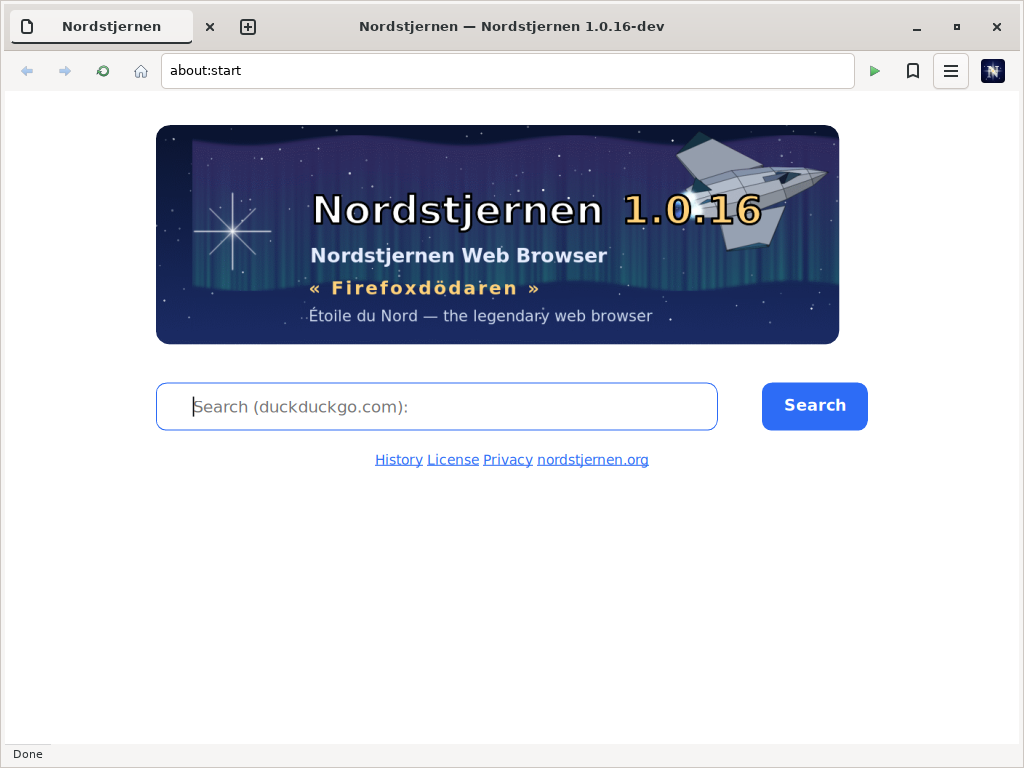
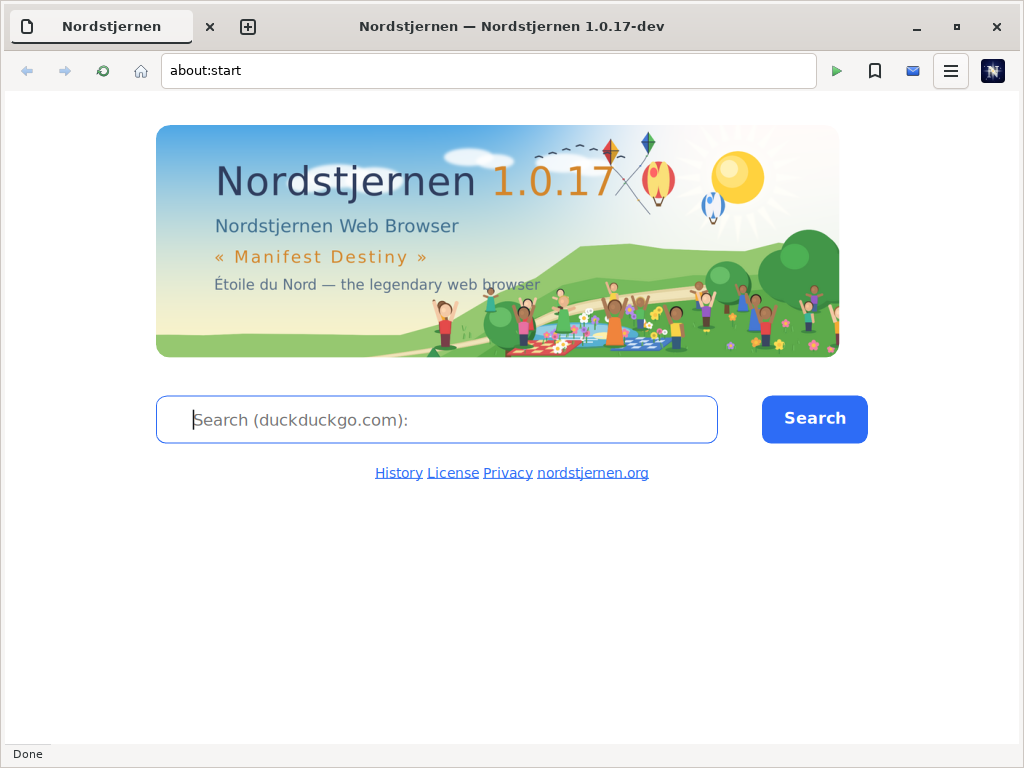
Release 1.0.17
Add release-1-0-17.html announcement page (builds on 1.0.16) and update
index.html: schema softwareVersion/downloadUrl, release line, news entry
for 1.0.17, download section, and drop the Qt build from the platforms
spec row. Update download.html to 1.0.17 (schema, hero, all-downloads
line). Refresh screenshots/screenshot.png to the 1.0.17 about:start
capture. Dated 30 June 2026.

Claude-Session: https://claude.ai/code/session_01F29XTLhewGQqPYkk4wruWQ

diff --git a/release-1-0-17.html b/release-1-0-17.html
@@ -1,0 +1,264 @@
+<!DOCTYPE html>
+<html lang="en">
+<head>
+<meta charset="utf-8">
+<meta name="viewport" content="width=device-width, initial-scale=1">
+<title>Nordstjernen Browser 1.0.17 released!</title>
+<meta name="description" content="Nordstjernen Browser 1.0.17 released - a maintenance release of an independent web browser written from scratch in C. No telemetry, no JIT.">
+<link rel="icon" type="image/svg+xml" href="assets/nordstjernen.svg">
+<link rel="stylesheet" href="assets/style.css">
+</head>
+<body>
+
+<div class="frame">
+
+  <div class="header">
+    <a class="bestviewed" href="https://github.com/nordstjernen-web/nordstjernen">
+      <img src="assets/best-viewed-in-nordstjernen.png" width="144" height="50" alt="Best viewed in Nordstjernen">
+    </a>
+    <div class="brand">
+      <a href="."><img class="logo" src="assets/nordstjernen.svg" alt="*"></a>
+      <span class="title"><a href=".">nordstjernen.org</a></span>
+    </div>
+    <div class="tag">small, steady, independent &middot; written from scratch in C &middot; no JIT, no telemetry</div>
+  </div>
+
+  <div class="nav">
+    <a href="#about">about</a><span class="sep">&middot;</span>
+    <a href="#news">news</a><span class="sep">&middot;</span>
+    <a href="#specs">specifications</a><span class="sep">&middot;</span>
+    <a href="screenshots.html">screenshots</a><span class="sep">&middot;</span>
+    <a href="#download">download</a><span class="sep">&middot;</span>
+    <a href="https://github.com/nordstjernen-web/nordstjernen">github</a><span class="sep">&middot;</span>
+    <a href="https://github.com/nordstjernen-web/nordstjernen/releases">releases</a><span class="sep">&middot;</span>
+    <a href="https://github.com/nordstjernen-web/nordstjernen/blob/main/License.md">license</a><span class="sep">&middot;</span>
+    <a href="https://discord.gg/4W959nW5vF">discord</a>
+  </div>
+
+  <div class="content">
+
+        <a id="about"></a>
+        <h1>Nordstjernen Browser 1.0.17 released!</h1>
+        <p>Today, 30 June 2026, we are pleased to announce the release of <b>Nordstjernen 1.0.17</b>, a maintenance release that builds on 1.0.16. Nordstjernen is a web browser, written from scratch in C, focused on supporting the HTML and CSS standards. It runs on Windows, Mac and Linux, with an Android port in progress. Nordstjernen is built in Norway.</p>
+
+        <p>This is a focused bug-fix and stability release: it continues to iron out rough edges reported since 1.0.16, with rendering and reliability fixes throughout. There are no new external dependencies and no telemetry &mdash; just a steadier 1.0.</p>
+
+        <p>Nordstjernen Browser version 1.0.17 is available now! <a href="https://github.com/nordstjernen-web/nordstjernen/releases/tag/1.0.17">Read the full release notes here</a>, or <a href="#download">jump straight to the downloads</a>.</p>
+
+        <p>&laquo; <a href="index.html">Back to nordstjernen.org</a></p>
+
+        <div class="shot">
+          <a href="screenshots/screenshot.png"><img src="screenshots/screenshot.png" width="1920" height="1080" alt="Nordstjernen start page"></a>
+          <div class="cap">Nordstjernen rendering a page. <a href="screenshots.html">more screenshots &raquo;</a></div>
+        </div>
+
+        <p><b>HTML Standard.</b> Behaviour is measured against the spec text, section by section, not against another browser &mdash; 136 spec rows fully implemented, 27 partial, 4 absent as of June 2026. See the standards table below and <a href="https://github.com/nordstjernen-web/nordstjernen/blob/main/docs/HTML-compatibility.md">docs/HTML-compatibility.md</a>.</p>
+        <p><b>Secure.</b> Process-per-tab design &mdash; each tab's engine runs in its own sandboxed process (seccomp + Landlock on Linux), talking to the UI over IPC and shared-memory framebuffers &middot; no JIT.</p>
+        <p><b>Minimalism.</b> The whole engine is about 127,000 lines of clean-room C (plus a thin C++ Qt shell), excluding the vendored libraries &mdash; small enough for one person to read and audit end-to-end.</p>
+        <p><b>Local AI.</b> The <code>about:start</code> new-tab page is a chat with a small language model running entirely on your machine via <a href="https://github.com/ggml-org/llama.cpp">llama.cpp</a> &mdash; no cloud, no network at inference time. Build with <code>-Dai=disabled</code> for a fully offline binary.</p>
+        <p>Nordstjernen has no JIT so it is much more secure, and can still be fast enough. It ships no telemetry of any kind.</p>
+
+        <a id="news"></a>
+        <h2>news</h2>
+        <p><span class="date">30&nbsp;JUN&nbsp;2026</span> &middot;
+        Nordstjernen <b>1.0.17</b> released &mdash; a maintenance release.
+        <a href="https://github.com/nordstjernen-web/nordstjernen/releases/tag/1.0.17">Release notes &raquo;</a></p>
+
+        <p><span class="date">27&nbsp;JUN&nbsp;2026</span> &middot;
+        Nordstjernen <b>1.0.16</b> released &mdash; a maintenance release.
+        <a href="release-1-0-16.html">Announcement &raquo;</a> &middot;
+        <a href="https://github.com/nordstjernen-web/nordstjernen/releases/tag/1.0.16">Release notes &raquo;</a></p>
+
+        <p><span class="date">25&nbsp;JUN&nbsp;2026</span> &middot;
+        Nordstjernen <b>1.0.15</b> released &mdash; a maintenance release.
+        <a href="release-1-0-15.html">Announcement &raquo;</a> &middot;
+        <a href="https://github.com/nordstjernen-web/nordstjernen/releases/tag/1.0.15">Release notes &raquo;</a></p>
+
+        <p><span class="date">23&nbsp;JUN&nbsp;2026</span> &middot;
+        Nordstjernen <b>1.0.14</b> released &mdash; a maintenance release.
+        <a href="release-1-0-14.html">Announcement &raquo;</a> &middot;
+        <a href="https://github.com/nordstjernen-web/nordstjernen/releases/tag/1.0.14">Release notes &raquo;</a></p>
+
+        <p><span class="date">21&nbsp;JUN&nbsp;2026</span> &middot;
+        Nordstjernen <b>1.0.12</b> released &mdash; a maintenance release.
+        <a href="https://github.com/nordstjernen-web/nordstjernen/releases/tag/1.0.12">Release notes &raquo;</a></p>
+
+        <p><span class="date">19&nbsp;JUN&nbsp;2026</span> &middot;
+        Nordstjernen <b>1.0.11</b> released &mdash; a maintenance release.
+        <a href="release-1-0-11.html">Announcement &raquo;</a> &middot;
+        <a href="https://github.com/nordstjernen-web/nordstjernen/releases/tag/1.0.11">Release notes &raquo;</a></p>
+
+        <p><span class="date">18&nbsp;JUN&nbsp;2026</span> &middot;
+        Nordstjernen <b>1.0.10</b> released &mdash; a maintenance release.
+        <a href="release-1-0-10.html">Announcement &raquo;</a> &middot;
+        <a href="https://github.com/nordstjernen-web/nordstjernen/releases/tag/1.0.10">Release notes &raquo;</a></p>
+
+        <p><span class="date">17&nbsp;JUN&nbsp;2026</span> &middot;
+        Nordstjernen <b>1.0.9</b> released &mdash; a maintenance release.
+        <a href="release-1-0-9.html">Announcement &raquo;</a> &middot;
+        <a href="https://github.com/nordstjernen-web/nordstjernen/releases/tag/1.0.9">Release notes &raquo;</a></p>
+
+        <p><span class="date">15&nbsp;JUN&nbsp;2026</span> &middot;
+        Nordstjernen <b>1.0.8</b> released &mdash; a maintenance release.
+        <a href="release-1-0-8.html">Announcement &raquo;</a> &middot;
+        <a href="https://github.com/nordstjernen-web/nordstjernen/releases/tag/1.0.8">Release notes &raquo;</a></p>
+
+        <p><span class="date">14&nbsp;JUN&nbsp;2026</span> &middot;
+        Nordstjernen <b>1.0.7</b> released &mdash; a maintenance release.
+        <a href="release-1-0-7.html">Announcement &raquo;</a> &middot;
+        <a href="https://github.com/nordstjernen-web/nordstjernen/releases/tag/1.0.7">Release notes &raquo;</a></p>
+
+        <p><span class="date">14&nbsp;JUN&nbsp;2026</span> &middot;
+        Nordstjernen <b>1.0.6</b> released &mdash; a maintenance release.
+        <a href="release-1-0-6.html">Announcement &raquo;</a> &middot;
+        <a href="https://github.com/nordstjernen-web/nordstjernen/releases/tag/1.0.6">Release notes &raquo;</a></p>
+
+        <p><span class="date">13&nbsp;JUN&nbsp;2026</span> &middot;
+        Nordstjernen <b>1.0.5</b> released &mdash; a maintenance release.
+        <a href="release-1-0-5.html">Announcement &raquo;</a> &middot;
+        <a href="https://github.com/nordstjernen-web/nordstjernen/releases/tag/1.0.5">Release notes &raquo;</a></p>
+
+        <p><span class="date">13&nbsp;JUN&nbsp;2026</span> &middot;
+        Nordstjernen <b>1.0.4</b> released &mdash; a maintenance release.
+        <a href="release-1-0-4.html">Announcement &raquo;</a> &middot;
+        <a href="https://github.com/nordstjernen-web/nordstjernen/releases/tag/1.0.4">Release notes &raquo;</a></p>
+
+        <p><span class="date">10&nbsp;JUN&nbsp;2026</span> &middot;
+        Nordstjernen <b>1.0.3</b> released &mdash; faster page loads and a UI translated into 40 languages.
+        <a href="release-1-0-3.html">Announcement &raquo;</a> &middot;
+        <a href="https://github.com/nordstjernen-web/nordstjernen/releases/tag/1.0.3">Release notes &raquo;</a></p>
+
+        <p><span class="date">9&nbsp;JUN&nbsp;2026</span> &middot;
+        Nordstjernen <b>1.0.2</b> released &mdash; a maintenance release.
+        <a href="release-1-0-2.html">Announcement &raquo;</a> &middot;
+        <a href="https://github.com/nordstjernen-web/nordstjernen/releases/tag/1.0.2">Release notes &raquo;</a></p>
+
+        <p><span class="date">7&nbsp;JUN&nbsp;2026</span> &middot;
+        Nordstjernen <b>1.0.1</b> released &mdash; a maintenance release.
+        <a href="release-1-0-1.html">Announcement &raquo;</a> &middot;
+        <a href="https://github.com/nordstjernen-web/nordstjernen/releases/tag/1.0.1">Release notes &raquo;</a></p>
+
+        <p><span class="date">5&nbsp;JUN&nbsp;2026</span> &middot;
+        Nordstjernen <b>1.0.0</b> released &mdash; the first stable release.
+        <a href="release-1-0-0.html">Announcement &raquo;</a> &middot;
+        <a href="https://github.com/nordstjernen-web/nordstjernen/releases/tag/1.0.0">Release notes &raquo;</a></p>
+
+        <p><span class="date">31&nbsp;MAY&nbsp;2026</span> &middot;
+        Nordstjernen <b>0.8.1</b> released.
+        <a href="https://github.com/nordstjernen-web/nordstjernen/releases/tag/0.8.1">Release notes &raquo;</a></p>
+
+        <p><span class="date">28&nbsp;MAY&nbsp;2026</span> &middot;
+        Nordstjernen <b>0.8.0</b> released.
+        <a href="https://github.com/nordstjernen-web/nordstjernen/releases/tag/0.8.0">Release notes &raquo;</a></p>
+
+        <p><span class="date">24&nbsp;MAY&nbsp;2026</span> &middot;
+        Nordstjernen <b>0.7.0</b> released.
+        <a href="https://github.com/nordstjernen-web/nordstjernen/releases/tag/0.7.0">Release notes &raquo;</a></p>
+
+        <a id="specs"></a>
+        <h2>specifications</h2>
+        <table class="spec">
+          <tr><th>language</th><td>C &middot; ~127 kLOC of clean-room C, plus a thin C++ Qt shell &middot; fully auditable</td></tr>
+          <tr><th>html / css</th><td><a href="https://github.com/lexbor/lexbor">lexbor</a> (parser, WHATWG URL, selectors)</td></tr>
+          <tr><th>javascript</th><td><a href="https://github.com/quickjs-ng/quickjs">quickjs-ng</a> &mdash; bytecode interpreter, no JIT</td></tr>
+          <tr><th>webassembly</th><td><a href="https://github.com/bytecodealliance/wasm-micro-runtime">WAMR</a> &mdash; interpreter behind the <code>WebAssembly</code> JS API</td></tr>
+          <tr><th>images</th><td><a href="https://github.com/google/wuffs">Wuffs</a> v0.4 (PNG / GIF / BMP / JPEG / WebP lossless)</td></tr>
+          <tr><th>media</th><td><a href="https://github.com/phoboslab/pl_mpeg">pl_mpeg</a> (MPEG-1 video) &middot; <a href="https://github.com/lieff/minimp3">minimp3</a> (MP3)</td></tr>
+          <tr><th>ai</th><td><a href="https://github.com/ggml-org/llama.cpp">llama.cpp</a> &mdash; on-device <code>about:start</code> chat &middot; no cloud &middot; <code>-Dai=disabled</code> for offline builds</td></tr>
+          <tr><th>ui</th><td><a href="https://www.gtk.org">GTK 4</a> (&ge;&nbsp;4.22.1 on Windows, &ge;&nbsp;4.14 elsewhere) &middot; Pango text shaping &middot; one window per page, no tab strip</td></tr>
+          <tr><th>network</th><td><a href="https://curl.se">libcurl</a> &ge;&nbsp;7.85 &middot; HTTP/2</td></tr>
+          <tr><th>hardening</th><td>process-per-tab &middot; seccomp + Landlock sandbox on Linux &middot; sandboxed renderer processes &middot; no JIT</td></tr>
+          <tr><th>privacy</th><td>no telemetry &middot; partitioned cookies &middot; HSTS &middot; CSP</td></tr>
+          <tr><th>standards</th><td>136 spec rows fully implemented, 27 partial, 4 absent (June 2026)</td></tr>
+          <tr><th>platforms</th><td>windows &middot; macos &middot; linux &middot; android &middot; java/jvm &middot; freebsd &middot; netbsd</td></tr>
+          <tr><th>license</th><td><a href="https://github.com/nordstjernen-web/nordstjernen/blob/main/License.md">NSL-1.0</a> &rarr; MIT after 10 years</td></tr>
+        </table>
+
+        <a id="download"></a>
+        <h2>download</h2>
+        <p>Latest tagged release: Nordstjernen <b>1.0.17</b> &mdash; released 30 June 2026.
+        <a href="https://github.com/nordstjernen-web/nordstjernen/releases/tag/1.0.17">full release notes &raquo;</a></p>
+
+        <p>Nordstjernen is also available on the
+        <a href="https://apps.microsoft.com/detail/9nw8t7w5z4pl">Microsoft Store</a>.</p>
+
+        <p><b>For platform-specific builds, use the nightly builds.</b> They are rebuilt
+        from <code>main</code> each night and point at the latest code &mdash; bleeding
+        edge, expect rough edges.</p>
+
+        <table class="spec dl">
+          <tr>
+            <th>Windows</th>
+            <td><a href="https://www.nordstjernen.org/nightly/nordstjernen-windows-x86_64.zip">nordstjernen-windows-x86_64.zip</a> &middot;
+                <a href="https://apps.microsoft.com/detail/9nw8t7w5z4pl">Microsoft Store</a></td>
+          </tr>
+          <tr>
+            <th>macOS</th>
+            <td><a href="https://www.nordstjernen.org/nightly/nordstjernen-macos.dmg">nordstjernen-macos.dmg</a></td>
+          </tr>
+          <tr>
+            <th>Debian</th>
+            <td><a href="https://www.nordstjernen.org/nightly/nordstjernen-debian-amd64.deb">nordstjernen-debian-amd64.deb</a></td>
+          </tr>
+          <tr>
+            <th>Ubuntu</th>
+            <td><a href="https://www.nordstjernen.org/nightly/nordstjernen-ubuntu-amd64.deb">nordstjernen-ubuntu-amd64.deb</a></td>
+          </tr>
+          <tr>
+            <th>openSUSE</th>
+            <td><a href="https://www.nordstjernen.org/nightly/nordstjernen-opensuse-x86_64.rpm">nordstjernen-opensuse-x86_64.rpm</a></td>
+          </tr>
+          <tr>
+            <th>Linux (portable)</th>
+            <td><a href="https://www.nordstjernen.org/nightly/nordstjernen-linux-x86_64.zip">nordstjernen-linux-x86_64.zip</a></td>
+          </tr>
+          <tr>
+            <th>Alpine (musl)</th>
+            <td><a href="https://www.nordstjernen.org/nightly/nordstjernen-alpine-x86_64.apk">nordstjernen-alpine-x86_64.apk</a> &middot;
+                <a href="https://www.nordstjernen.org/nightly/nordstjernen-alpine-x86_64.zip">.zip</a></td>
+          </tr>
+          <tr>
+            <th>Java API (JDK 21)</th>
+            <td><a href="https://www.nordstjernen.org/nightly/nordstjernen-java.jar">nordstjernen-java.jar</a> &middot;
+                <a href="https://www.nordstjernen.org/nightly/nordstjernen-java-sources.jar">sources</a> &middot;
+                <a href="https://www.nordstjernen.org/nightly/nordstjernen-java-javadoc.jar">javadoc</a> &middot;
+                <a href="https://www.nordstjernen.org/nightly/java/apidocs/">API docs</a></td>
+          </tr>
+          <tr>
+            <th>Source</th>
+            <td><a href="https://www.nordstjernen.org/nightly/nordstjernen-src.tar.xz">nordstjernen-src.tar.xz</a></td>
+          </tr>
+          <tr>
+            <th>Checksums</th>
+            <td><a href="https://www.nordstjernen.org/nightly/SHA256SUMS">SHA256SUMS</a> &middot;
+                <a href="https://www.nordstjernen.org/nightly/">all nightly files</a></td>
+          </tr>
+        </table>
+
+  </div>
+
+  <div class="footer">
+    <div class="counter"><img src="counter.php" alt="visitor count"></div>
+    Copyright &copy; 2026 the Nordstjernen project &middot;
+    <a href="https://github.com/nordstjernen-web/nordstjernen/blob/main/License.md">NSL-1.0</a> &middot;
+    <a href="mailto:andreas.rosdal@hotmail.com">andreas.rosdal@hotmail.com</a>
+  </div>
+
+</div>
+
+<script type="text/javascript">
+document.addEventListener('DOMContentLoaded', function () {
+  document.querySelectorAll('a').forEach(function (link) {
+    link.addEventListener('mouseenter', function () {
+      window.status = link.getAttribute('href') || '';
+    });
+    link.addEventListener('mouseleave', function () {
+      window.status = 'nordstjernen.org';
+    });
+  });
+  window.status = 'nordstjernen.org';
+});
+</script>
+
+</body>
+</html>

diff --git a/index.html b/index.html
@@ -24,9 +24,9 @@
   "name": "Nordstjernen",
   "applicationCategory": "BrowserApplication",
   "operatingSystem": "Windows, macOS, Linux",
-  "softwareVersion": "1.0.16",
+  "softwareVersion": "1.0.17",
   "url": "https://www.nordstjernen.org/",
-  "downloadUrl": "https://github.com/nordstjernen-web/nordstjernen/releases/tag/1.0.16",
+  "downloadUrl": "https://github.com/nordstjernen-web/nordstjernen/releases/tag/1.0.17",
   "license": "https://github.com/nordstjernen-web/nordstjernen/blob/main/License.md",
   "offers": { "@type": "Offer", "price": "0", "priceCurrency": "USD" }
 }
@@ -67,7 +67,7 @@
         <h1 id="about" style="color:#003366;">Nordstjernen Web Browser</h1>
         <p class="lead">Nordstjernen is a web browser, written from scratch in C, focused on supporting the HTML and CSS standards. It runs on Windows, Mac and Linux, with an Android port in progress. Nordstjernen is built in Norway.</p>
 
-        <p class="release-line">Nordstjernen Browser version 1.0.16 released! <a href="release-1-0-16.html">Read the announcement</a> &middot; <a href="https://github.com/nordstjernen-web/nordstjernen/releases/tag/1.0.16">More info here</a>.</p>
+        <p class="release-line">Nordstjernen Browser version 1.0.17 released! <a href="release-1-0-17.html">Read the announcement</a> &middot; <a href="https://github.com/nordstjernen-web/nordstjernen/releases/tag/1.0.17">More info here</a>.</p>
 
         <figure class="shot">
           <a href="screenshots/screenshot.png"><img src="screenshots/screenshot.png" width="1333" height="1000" loading="lazy" alt="Nordstjernen rendering a web page"></a>
@@ -83,6 +83,11 @@
 
         <h2 id="news">news</h2>
         <ul class="news">
+        <li><time class="date" datetime="2026-06-30">30&nbsp;JUN&nbsp;2026</time> &middot;
+        Nordstjernen <b>1.0.17</b> released &mdash; a maintenance release.
+        <a href="release-1-0-17.html">Announcement &raquo;</a> &middot;
+        <a href="https://github.com/nordstjernen-web/nordstjernen/releases/tag/1.0.17">Release notes &raquo;</a></li>
+
         <li><time class="date" datetime="2026-06-27">27&nbsp;JUN&nbsp;2026</time> &middot;
         Nordstjernen <b>1.0.16</b> released &mdash; a maintenance release.
         <a href="release-1-0-16.html">Announcement &raquo;</a> &middot;
@@ -189,12 +194,12 @@
           <tr><th scope="row">hardening</th><td>process-per-tab &middot; seccomp + Landlock sandbox on Linux &middot; sandboxed renderer processes &middot; no JIT</td></tr>
           <tr><th scope="row">privacy</th><td>no telemetry &middot; partitioned cookies &middot; HSTS &middot; CSP</td></tr>
           <tr><th scope="row">standards</th><td>136 spec rows fully implemented, 27 partial, 4 absent &middot; WHATWG HTML sections 1&ndash;16 (June 2026)</td></tr>
-          <tr><th scope="row">platforms</th><td>linux (gtk / qt) &middot; windows &middot; macos &middot; android &middot; java/jvm &middot; freebsd &middot; netbsd</td></tr>
+          <tr><th scope="row">platforms</th><td>linux (gtk) &middot; windows &middot; macos &middot; android &middot; java/jvm &middot; freebsd &middot; netbsd</td></tr>
           <tr><th scope="row">license</th><td><a href="https://github.com/nordstjernen-web/nordstjernen/blob/main/License.md">NSL-1.0</a> &rarr; MIT after 10 years &middot; The Nordstjernen Source License is inspired by the <a href="https://fsl.software/">Functional Source License (FSL)</a>, a Fair Source license that converts to Apache 2.0 or MIT.</td></tr>
         </table>
 
         <h2 id="download">download</h2>
-        <p>Latest tagged release: Nordstjernen <b>1.0.16</b> &mdash; released 27 June 2026.
+        <p>Latest tagged release: Nordstjernen <b>1.0.17</b> &mdash; released 30 June 2026.
         Builds for Windows, macOS and Linux, plus the source, are all on the download page.</p>
 
         <p><a class="btn-red" href="download.html">Download Nordstjernen &raquo;</a></p>

diff --git a/download.html b/download.html
@@ -24,9 +24,9 @@
   "name": "Nordstjernen",
   "applicationCategory": "BrowserApplication",
   "operatingSystem": "Windows, macOS, Linux",
-  "softwareVersion": "1.0.16",
+  "softwareVersion": "1.0.17",
   "url": "https://www.nordstjernen.org/download.html",
-  "downloadUrl": "https://github.com/nordstjernen-web/nordstjernen/releases/tag/1.0.16",
+  "downloadUrl": "https://github.com/nordstjernen-web/nordstjernen/releases/tag/1.0.17",
   "license": "https://github.com/nordstjernen-web/nordstjernen/blob/main/License.md",
   "offers": { "@type": "Offer", "price": "0", "priceCurrency": "USD" }
 }
@@ -67,13 +67,13 @@
         <h1 id="download">download</h1>
 
         <div class="os-hero">
-          <a id="os-download" class="btn-red" href="https://github.com/nordstjernen-web/nordstjernen/releases/tag/1.0.16">Download Nordstjernen</a>
-          <p class="os-note">Nordstjernen 1.0.16 &middot; free &amp; open source &middot; no telemetry. <a href="#downloads">All platforms below &raquo;</a></p>
+          <a id="os-download" class="btn-red" href="https://github.com/nordstjernen-web/nordstjernen/releases/tag/1.0.17">Download Nordstjernen</a>
+          <p class="os-note">Nordstjernen 1.0.17 &middot; free &amp; open source &middot; no telemetry. <a href="#downloads">All platforms below &raquo;</a></p>
         </div>
 
         <h2 id="downloads">all downloads</h2>
-        <p>Latest tagged release: Nordstjernen <b>1.0.16</b> &mdash; released 27 June 2026.
-        <a href="https://github.com/nordstjernen-web/nordstjernen/releases/tag/1.0.16">full release notes &raquo;</a></p>
+        <p>Latest tagged release: Nordstjernen <b>1.0.17</b> &mdash; released 30 June 2026.
+        <a href="https://github.com/nordstjernen-web/nordstjernen/releases/tag/1.0.17">full release notes &raquo;</a></p>
 
         <p>Nordstjernen is also available on the
         <a href="https://apps.microsoft.com/detail/9nw8t7w5z4pl">Microsoft Store</a>.</p>
